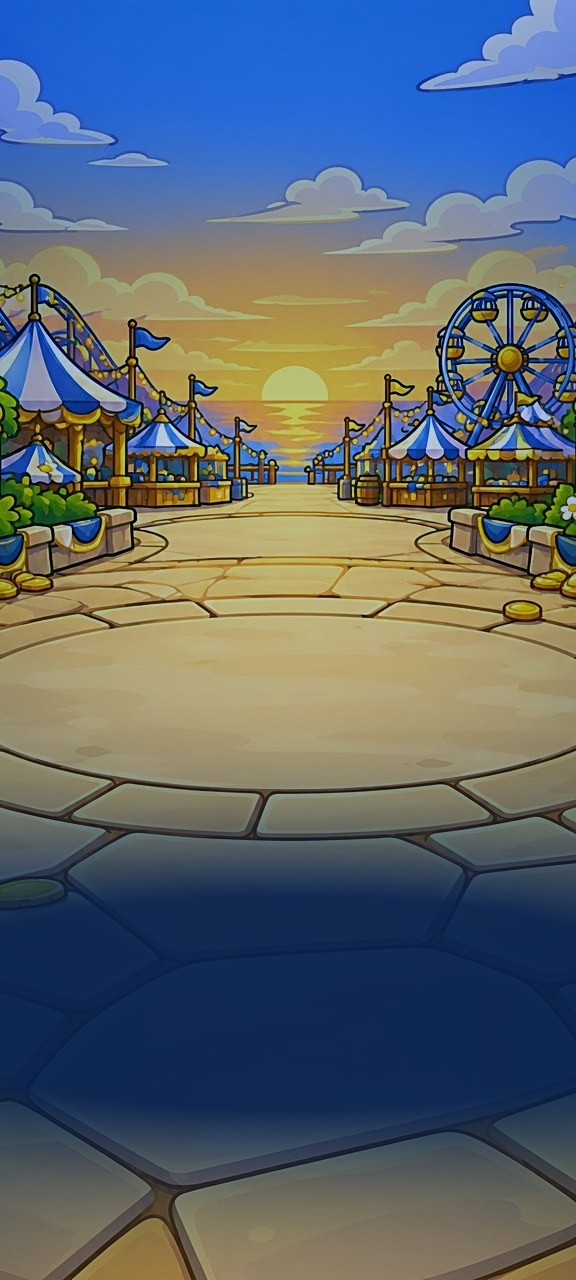
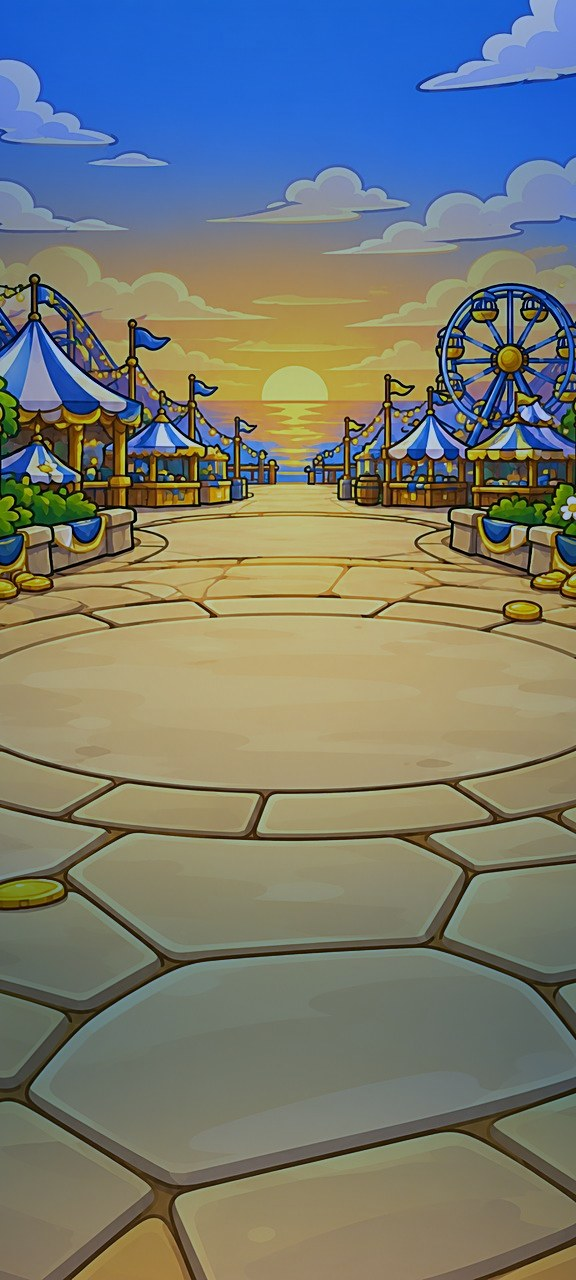
Art: old splash never shows, Defend score on a light plaque, one shield for every team
- Splash: the server theme still names the 1.7.3 splash (light-sword, starred
  wizard hat, castle, ringed globe). The bundled splash art now wins over that
  retired file on every launch path (live theme, cached theme, bundled
  fallback). The art is picked once when the splash mounts, so a late theme
  never swaps the picture, and a server splash that fails to load falls back
  to the bundled art. The bundled theme fallback names no server splash.
- Defend: back to the bright fair scene (no dark navy band baked in). The score
  sits on a cream plaque with a gold rim and navy outline drawn in code, so it
  lines up on every screen height (blue 5.4:1, navy 10.8:1, orange 5.4:1).
- Defend shield: the chevron shield Dustin saw on the sheet, so no team
  defends under the shark fin.
- Tests pin the retired splash rule, the plaque and the approved art bytes.

diff --git a/src/components/GymBattle/DefendMiniGameModal.tsx b/src/components/GymBattle/DefendMiniGameModal.tsx
@@ -462,10 +462,16 @@ export default function DefendMiniGameModal({
               </Pressable>
 
               {/* Points and tier at bottom */}
+              {/* Light score plaque drawn in code: it sits right behind the
+                  score on every screen height and keeps the scene bright. */}
               <Animated.View style={[styles.defenseContainer, multiplierAnimStyle]}>
-                <Text style={styles.tapCountBig}>{totalPoints}</Text>
-                <Text style={styles.defenseLabel}>POINTS</Text>
-                <Text style={styles.tierLabel}>{getTierName(totalPoints)}</Text>
+                <View style={styles.scorePlaque}>
+                  <View style={styles.scorePlaqueInner}>
+                    <Text style={styles.tapCountBig}>{totalPoints}</Text>
+                    <Text style={styles.defenseLabel}>POINTS</Text>
+                    <Text style={styles.tierLabel}>{getTierName(totalPoints)}</Text>
+                  </View>
+                </View>
               </Animated.View>
             </View>
           )}
@@ -683,32 +689,47 @@ const styles = StyleSheet.create({
     right: 0,
     alignItems: 'center',
   },
+  // Alex-style plaque: cream face, gold rim, thick navy outline, flat drop.
+  scorePlaque: {
+    borderRadius: 26,
+    borderWidth: 3,
+    borderColor: '#123A6B',
+    backgroundColor: '#F5B800',
+    padding: 4,
+    shadowColor: '#123A6B',
+    shadowOffset: { width: 0, height: 4 },
+    shadowOpacity: 0.35,
+    shadowRadius: 0,
+  },
+  scorePlaqueInner: {
+    minWidth: 190,
+    alignItems: 'center',
+    borderRadius: 21,
+    backgroundColor: '#FFF8E6',
+    paddingHorizontal: 26,
+    paddingTop: 2,
+    paddingBottom: 10,
+  },
   tapCountBig: {
-    fontSize: 80,
+    fontSize: 72,
     fontWeight: '900',
-    color: '#FFD700',
-    textShadowColor: '#FF6B00',
-    textShadowOffset: { width: 0, height: 4 },
-    textShadowRadius: 20,
+    color: '#0768B9',
+    textShadowColor: '#FFD700',
+    textShadowOffset: { width: 0, height: 3 },
+    textShadowRadius: 0,
   },
   defenseLabel: {
-    fontSize: 32,
+    fontSize: 26,
     fontWeight: '900',
-    color: '#FFD700',
-    textShadowColor: '#000',
-    textShadowOffset: { width: 2, height: 2 },
-    textShadowRadius: 6,
+    color: '#123A6B',
     marginTop: -8,
     letterSpacing: 4,
   },
   tierLabel: {
-    fontSize: 20,
+    fontSize: 18,
     fontWeight: '800',
-    color: '#FF6B00',
-    textShadowColor: '#000',
-    textShadowOffset: { width: 1, height: 1 },
-    textShadowRadius: 4,
-    marginTop: 4,
+    color: '#B4400A',
+    marginTop: 2,
     letterSpacing: 2,
   },
   multiplierBanner: {

diff --git a/src/screens/SplashScreen.tsx b/src/screens/SplashScreen.tsx
@@ -1,11 +1,12 @@
 import { Image } from 'expo-image';
-import { useContext, useEffect, useRef } from 'react';
+import { useContext, useEffect, useRef, useState } from 'react';
 import { Animated, Dimensions, StyleSheet, View } from 'react-native';
 import { useEffectOnceWhen } from 'rooks';
 import * as RootNavigation from '../RootNavigation';
 import { AuthContext } from '../context/AuthProvider';
 import { ThemeContext } from '../context/ThemeProvider';
 import { CrumbContext } from '../context/CrumbProvider';
+import { themeSplashUri } from '../utils/splashArt';
 
 // The binary's launch art. app.config.js `splash.image` points at this file and
 // Expo hashes it into the runtime fingerprint, so its bytes must never change in
@@ -25,6 +26,13 @@ export default function SplashScreen() {
   const hasNavigated = useRef(false);
   const artOpacity = useRef(new Animated.Value(0)).current;
   const faded = useRef(false);
+  // Pick the art once, when the splash mounts. A theme that resolves later
+  // never swaps the picture mid-fade, and the retired 1.7.3 server splash
+  // (light-sword, wizard hat, castle) never replaces the bundled art.
+  const [artSource, setArtSource] = useState(() => {
+    const uri = themeSplashUri(theme?.splash_screen_url);
+    return uri ? { uri } : SPLASH_ART;
+  });
 
   const fadeIn = () => {
     if (faded.current) return;
@@ -64,16 +72,19 @@ export default function SplashScreen() {
 
   return (
     // Same art and blue as the native launch screen, so the handoff from the
-    // launch storyboard is seamless. The current art (or a server theme
-    // splash) then fades in over it on the UI thread.
+    // launch storyboard is seamless. The current art (or an allowed server
+    // theme splash) then fades in over it on the UI thread.
     <View style={{ flex: 1, backgroundColor: '#0768B9' }}>
       <Image source={LAUNCH_ART} contentFit="cover" style={size} />
       <Animated.View style={[StyleSheet.absoluteFill, { opacity: artOpacity }]}>
         <Image
-          source={theme?.splash_screen_url ? { uri: theme.splash_screen_url } : SPLASH_ART}
+          source={artSource}
           contentFit="cover"
           transition={0}
           onLoad={fadeIn}
+          // A server splash that fails to load falls back to the bundled art,
+          // so the old launch art underneath never shows through.
+          onError={() => setArtSource(SPLASH_ART)}
           style={size}
         />
       </Animated.View>

diff --git a/src/utils/splashArt.ts b/src/utils/splashArt.ts
@@ -1,0 +1,18 @@
+// Which splash art the JS splash shows.
+//
+// The server theme can name its own splash image (splash_screen_url). The 1.7.3
+// theme still points at the old splash, which has a green light-sword, a blue
+// starred wizard hat, a castle and a ringed globe. That art is retired for IP
+// safety: when the theme names it, the bundled art wins. Any other https image
+// the theme names is still used, so a new server splash needs no app update.
+export const RETIRED_SPLASH_ASSETS: readonly string[] = [
+  'PuwNJoYcQVIbyy487jU41dMfHc5gHUBlXeVzZ93N',
+];
+
+export function themeSplashUri(url: string | null | undefined): string | null {
+  if (typeof url !== 'string') return null;
+  const trimmed = url.trim();
+  if (!/^https:\/\//i.test(trimmed)) return null;
+  if (RETIRED_SPLASH_ASSETS.some((id) => trimmed.includes(id))) return null;
+  return trimmed;
+}
